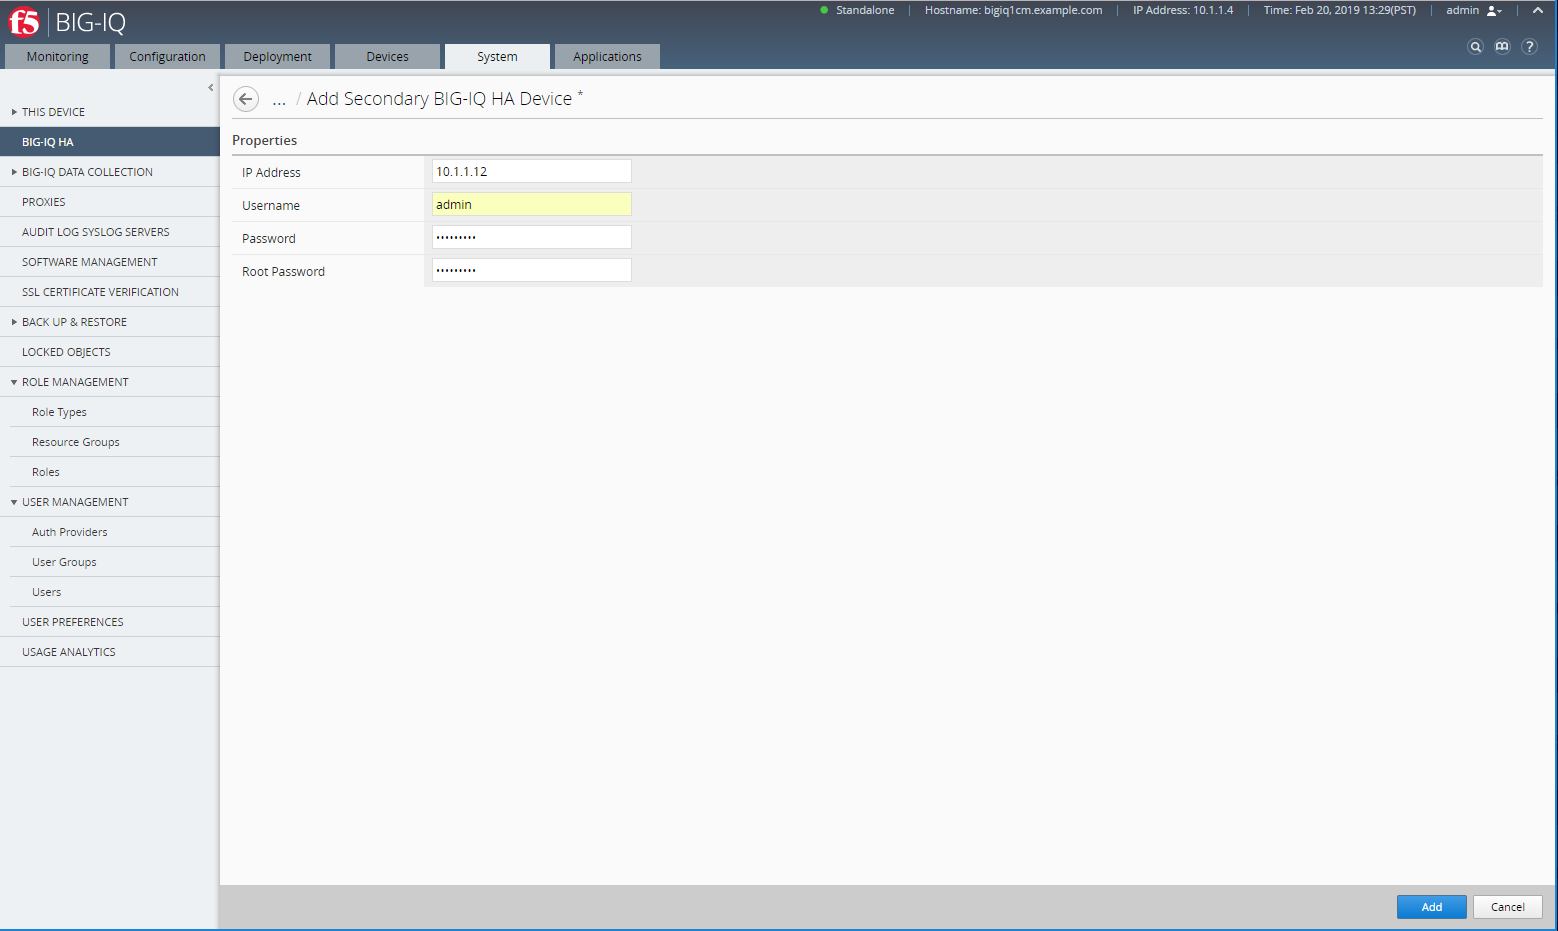
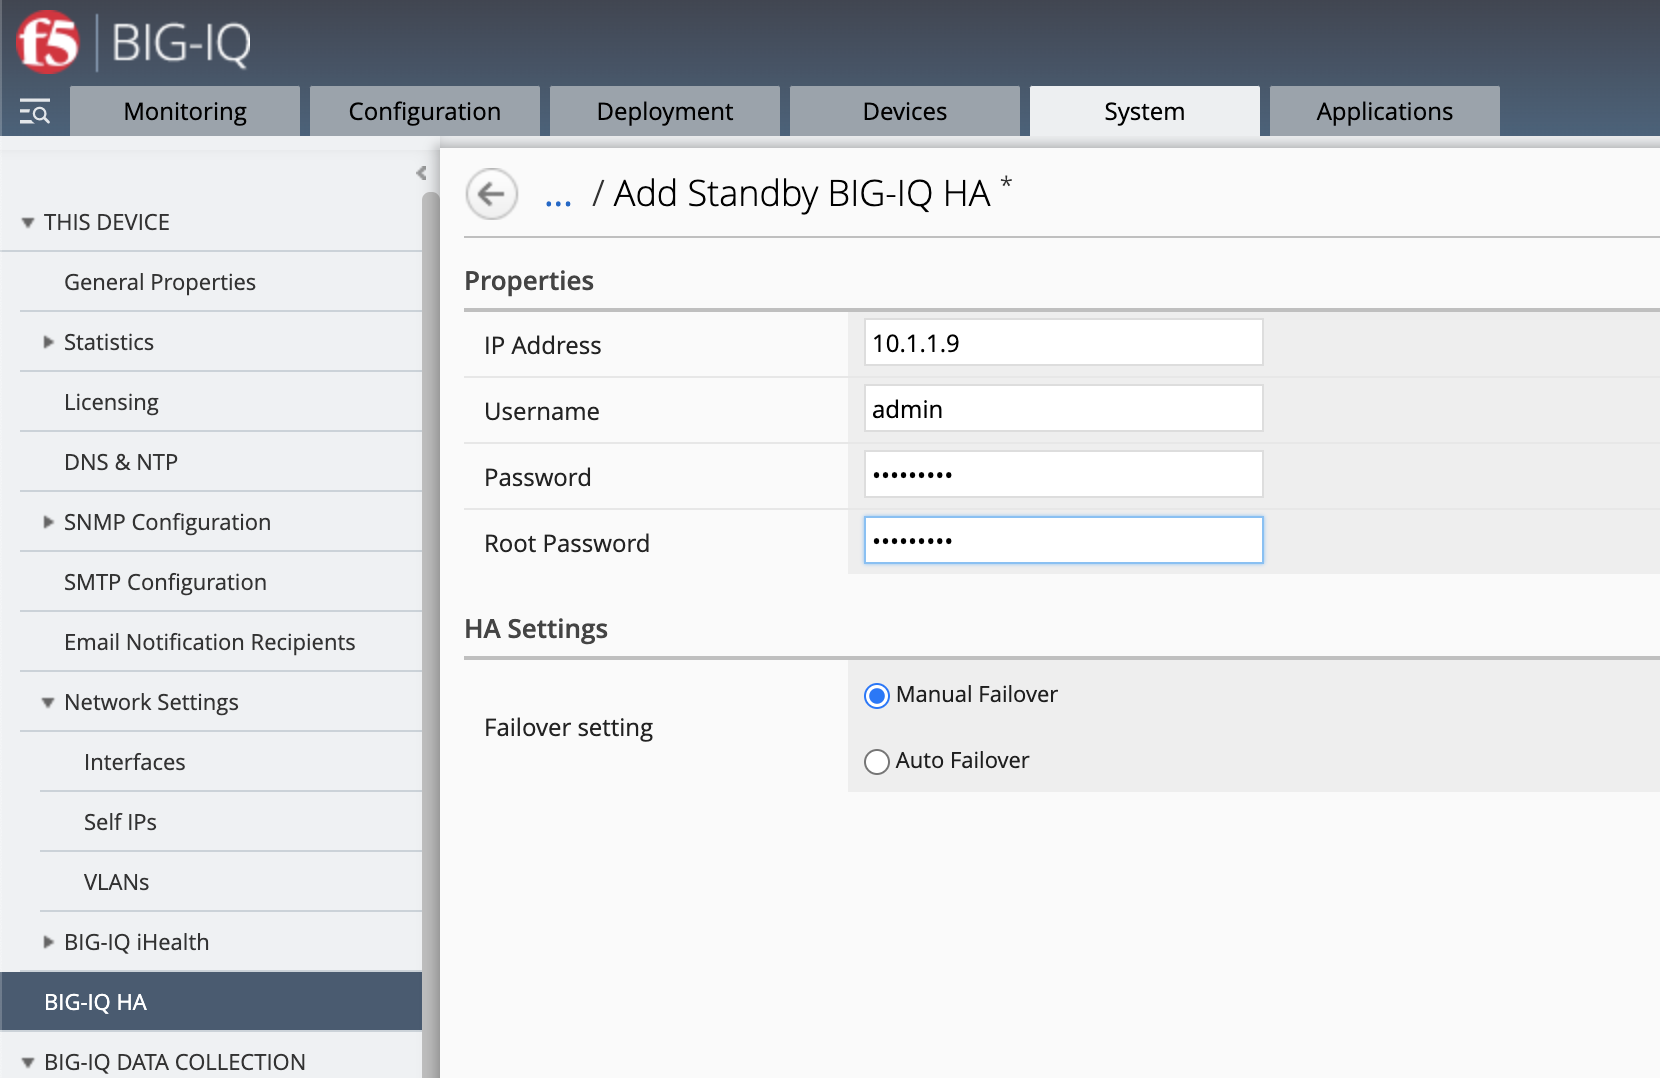
fix BIG-IQ HA lab

diff --git a/docs/class4/module4/lab2.rst b/docs/class4/module4/lab2.rst
@@ -1,5 +1,5 @@
-Lab 4.2: Configure High Availability for BIG-IQ (7.0 and after)
----------------------------------------------------------------
+Lab 4.2: Configure High Availability for BIG-IQ: Auto Failover
+--------------------------------------------------------------
 **Overview**
 
 With BIG-IQ v7.0 and above, BIG-IQ CM High Availability can be automated for VMware. Election of the primary BIG-IQ Central Manager goes via a quorum-based technology which enforces consistent fail-over. In case of a fail-over, quorum will make that the secondary BIG-IQ central manager will be able to automatically take over, without an administrator doing the election or promotion from standby to master manually.
@@ -9,30 +9,35 @@ Official documentation about BIG-IQ High Availability Auto Failover Configuratio
 
 .. _`BIG-IQ Knowledge Center`: https://techdocs.f5.com/en-us/bigiq-7-0-0/creating-a-big-iq-high-availability-auto-fail-over-config.html
 
-.. note:: If you haven’t setup a **SECOND** BIG-IQ Central Manager, please go to `Lab 4.1`_ and follow the steps from 1 to 6.
+1. Login to BIG-IQ 1 as user **david**  and go to **System > BIG-IQ HA > BIG-IQ HA Settings**. 
+
+2. If no HA is setup, go to step 5.
+
+.. note:: If you haven’t setup a **SECOND** BIG-IQ Central Manager, please go to `Lab 4.1`_ and follow the steps from **1 to 6**.
 
 .. _Lab 4.1: ./lab1.html
 
-1. Login to BIG-IQ 1 as user **David**  and go to **System > BIG-IQ HA > BIG-IQ HA Settings**. Check that the current used High Available method is Manual Failover.
+3. If you have been through the previous lab 4.1 and had setup manual failover, you need to break this HA setup. In BIG-IQ HA Settings click **Reset to Standalone**.
 
  .. image:: ../pictures/module4/lab-2-1.png
   :align: center
   
 BIG-IQ HA Settings does not have a quorum device configured and this a way to recognize that the used failover is the manual failover.
 
-2. We need to switch the failover method from manual failover to automated failover and therefore we need to break this HA setup. In BIG-IQ HA Settings click **Reset to Standalone**.
-
-3. A pop-up shows up: Reset to Standalone? Click **OK**.
+Reset to Standalone? Click **OK**.
 
 .. image:: ../pictures/module4/lab-2-2.png
   :align: center
   :scale: 30
-  
+
 This will take some time (~ 3 minutes) and log you out from BIG-IQ.
 
-4. Once the login window returns for BIG-IQ 1 CM, login as user **David**  and go to System > BIG-IQ HA. Will notice that only one BIG-IQ system is present, and no HA is configured.
+4. Once the login window returns for BIG-IQ 1 CM, login as user **david** and go to System > BIG-IQ HA.
+   Will notice that only one BIG-IQ system is present, and no HA is configured.
 
 5. Click ``Add System`` and fill in the following:
+
+.. warning:: Double check the IP addresses of the new secondary BIG-IQ and update it if necessary. In below example 10.1.1.9 and 10.1.10.9 are used.
 
 *Properties*
  * IP Address =	10.1.10.9
@@ -45,12 +50,17 @@ This will take some time (~ 3 minutes) and log you out from BIG-IQ.
  * Select: bigiq1dcd.example.com (pull-down)
  * Quorum Root Password = purple123
 
+.. image:: ../pictures/module4/lab-2-3a.png
+  :align: center
+
+.. note:: we are not setting up a floating IP as it requires the 2 CM to be in the same broadcast domain to allow GARP LAN protocol (which is not the case in this lab)
+
 6. Click **Add** and **OK**.
 
 Creating the Automate failover setup with the quorum device takes about 5 minutes.
 Once the process is completed the pop-up window will tell you and you can close the window. 
 
-.. image:: ../pictures/module4/lab-2-3.png
+.. image:: ../pictures/module4/lab-2-3b.png
   :align: center
   
 At BIG-IQ HA you will find three devices configured:
@@ -69,16 +79,14 @@ when the active CM fails and failover takes place from active to standby, which 
 
 8. Login with **David**  and go **System > BIG-IQ HA > BIG-IQ HA Settings** and promote the Standby Device. The pop-up will ask: *Promote Standby Device to Active?* Click **OK**.
 
-9.	Repeat step 7.
+9.Repeat step 7.
 
 Before finishing this lab, there is one task to do. If you are done testing BIG-IQ HA, stop BIG-IQ CM Secondary to avoid additional costs. 
 You might want to switch the active BIG-IQ before stopping the secondary… (or stop BIG-IQ primary in lab environment and skip the next steps)
 
-10.	Go to BIG-IQ CM Secondary ``https\:\/\/10.1.1.9`` and then: **Systems > BIG-IQ HA > BIG-IQ HA Settings**.
+10.	Go to BIG-IQ CM Secondary ``https://10.1.1.9`` and then: **Systems > BIG-IQ HA > BIG-IQ HA Settings**.
 
 11.	Promote the standby device bigiq1cm.example.com, at the pop-up click **OK**.
 
-12.	Refresh the Browser window and wait (takes ~5min) until the BIG-IQ failover IP gets redirected to BIG-IQ CM (10.1.1.4) and check if it has become the primary unit.
-
-13.	Stop BIG-IQ CM Secondary in lab environment.
+12.	Stop BIG-IQ CM Secondary in lab environment.
 

diff --git a/docs/class4/module4/lab1.rst b/docs/class4/module4/lab1.rst
@@ -1,4 +1,4 @@
-Lab 4.1: Configure High Availability for BIG-IQ (6.1 and before)
+Lab 4.1: Configure High Availability for BIG-IQ: Manual Failover
 ----------------------------------------------------------------
 
 **Add a peer BIG-IQ system for a high availability configuration**
@@ -67,9 +67,9 @@ Then, start the new BIG-IQ CM VM.
 
 3. Connect via ``SSH`` to the system *Ubuntu Lamp Server*.
 
-4. Edit the hosts file and make sure only the ``big-iq-cm-2.example.com`` is not commented with a ``#``.
+4. Edit the hosts file and make sure **ONLY** the ``big-iq-cm-2.example.com`` is not commented with a ``#``.
 
-.. warning:: Double check the IP addresses of the new secondary BIG-IQ and update it if necessary
+.. warning:: Double check the IP addresses of the new secondary BIG-IQ and update it if necessary. In below example 10.1.1.9 and 10.1.10.9 are used.
 
 .. code::
 
@@ -77,8 +77,8 @@ Then, start the new BIG-IQ CM VM.
     # vi hosts
 
     [f5_bigiq_cm]
-    #big-iq-cm-1.example.com ansible_host=10.1.1.4 ...
-    big-iq-cm-2.example.com ansible_host=10.1.1.9 ...
+    #big-iq-cm-1.example.com ansible_host=10.1.1.4 discoveryip=10.1.10.4/24 ...
+    big-iq-cm-2.example.com ansible_host=10.1.1.9 discoveryip=10.1.10.9/24 ...
 
 
 
@@ -102,7 +102,17 @@ Then, start the new BIG-IQ CM VM.
 
 .. _Lab 4.2: ./lab2.html
 
-7. Open active BIG-IQ, go to System > BIG-IQ HA and Click the Add Secondary button.
+7. In BIG-IQ HA Settings click **Reset to Standalone**.
+
+8. Open active BIG-IQ, go to System > BIG-IQ HA and Click the Add Secondary button.
+
+.. warning:: Double check the IP addresses of the new secondary BIG-IQ and update it if necessary. In below example 10.1.1.9 and 10.1.10.9 are used.
+
+*Properties*
+ * IP Address =	10.1.10.9
+ * Username = admin
+ * Password = purple123
+ * Root Password = purple123
 
 .. image:: ../pictures/module4/img_module4_lab1_4.png
   :align: center
@@ -110,7 +120,7 @@ Then, start the new BIG-IQ CM VM.
 
 |
 
-8. Type the properties for the BIG-IQ system that you are adding and click the Add button at the bottom of the screen.
+9. Type the properties for the BIG-IQ system that you are adding and click the Add button at the bottom of the screen.
 
 - In the IP Address field, type the IP address for the secondary BIG-IQ system.
 - In the Username and Password fields, type the administrator's user name and password for the new BIG-IQ system.
@@ -131,4 +141,3 @@ Then, click OK.
 |
 
 The BIG-IQ system synchronize. Once they are finished, both appear as ready (green).
-

diff --git a/docs/class5/module9/lab3.rst b/docs/class5/module9/lab3.rst
@@ -79,9 +79,9 @@ Once onboarding is complete, the BIG-IP VE will be a managed BIG-IP within BIG-I
 .. |image15| image:: pictures/image15.png
    :width: 60%
 .. |image16| image:: pictures/image16.png
-   :width: 60%
+   :width: 100%
 .. |image17| image:: pictures/image17.png
-   :width: 60%
+   :width: 100%
 .. |image18| image:: pictures/image18.png
    :width: 50%
 .. |image19| image:: pictures/image19.png
@@ -89,11 +89,11 @@ Once onboarding is complete, the BIG-IP VE will be a managed BIG-IP within BIG-I
 .. |image20| image:: pictures/image20.png
    :width: 60%
 .. |image23| image:: pictures/image23.png
-   :width: 60%
+   :width: 100%
 .. |image24| image:: pictures/image24.png
    :width: 50%
 .. |image25| image:: pictures/image25.png
    :width: 50%
 .. |image26| image:: pictures/image26.png
-   :width: 50%
+   :width: 100%
 

diff --git a/docs/class5/module8/lab3.rst b/docs/class5/module8/lab3.rst
@@ -56,13 +56,13 @@ Once onboarding is complete, the BIG-IP VE will be a managed BIG-IP within BIG-I
 .. |image9| image:: pictures/image9.png
    :width: 60%
 .. |image10| image:: pictures/image10.png
-   :width: 60%
+   :width: 100%
 .. |image11| image:: pictures/image11.png
-   :width: 60%
+   :width: 100%
 .. |image12| image:: pictures/image12.png
-   :width: 60%
+   :width: 100%
 .. |image13| image:: pictures/image13.png
-   :width: 60%
+   :width: 100%
 .. |image14| image:: pictures/image14.png
    :width: 60%
 .. |image15| image:: pictures/image15.png

diff --git a/docs/class5/module7/lab1.rst b/docs/class5/module7/lab1.rst
@@ -75,6 +75,9 @@ BIG-IP VE Creation is complete from here we can see BIG-IQ harvested the DHCP IP
 
 Lab 2 of this module will cover Onboarding the newly created VMWare VE.
 
+.. Note:: If you try to open BIG-IP web interface, to bypass the Google Chrome “Your connection is not private” Warning, just type in blindly ``thisisunsafe``.
+
+
 See `Class 2 Module 1 Lab 4`_ for help with Troubleshooting.
 
 .. _Class 2 Module 1 Lab 4: ../../class2/module1/lab4.html

diff --git a/docs/class5/module8/lab2.rst b/docs/class5/module8/lab2.rst
@@ -90,6 +90,8 @@ BIG-IP VE Creation is complete from here we can see BIG-IQ harvested the Public 
 
 Lab 2 of this module will cover Onboarding the newly created AWS VE.
 
+.. Note:: If you try to open BIG-IP web interface, to bypass the Google Chrome “Your connection is not private” Warning, just type in blindly ``thisisunsafe``.
+
 See `Class 2 Module 4 Lab 6`_ for help with Troubleshooting.
 
 .. _Class 2 Module 4 Lab 6: ../../class2/module4/lab6.html

diff --git a/docs/class5/module9/lab2.rst b/docs/class5/module9/lab2.rst
@@ -85,6 +85,8 @@ Lab 2 of this module will cover Onboarding the newly created VE.
 
   |image10|
 
+.. Note:: If you try to open BIG-IP web interface, to bypass the Google Chrome “Your connection is not private” Warning, just type in blindly ``thisisunsafe``.
+
 See `Class 2 Module 5 Lab 6`_ for help with Troubleshooting.
 
 .. _Class 2 Module 5 Lab 6: ../../class2/module5/lab6.html
